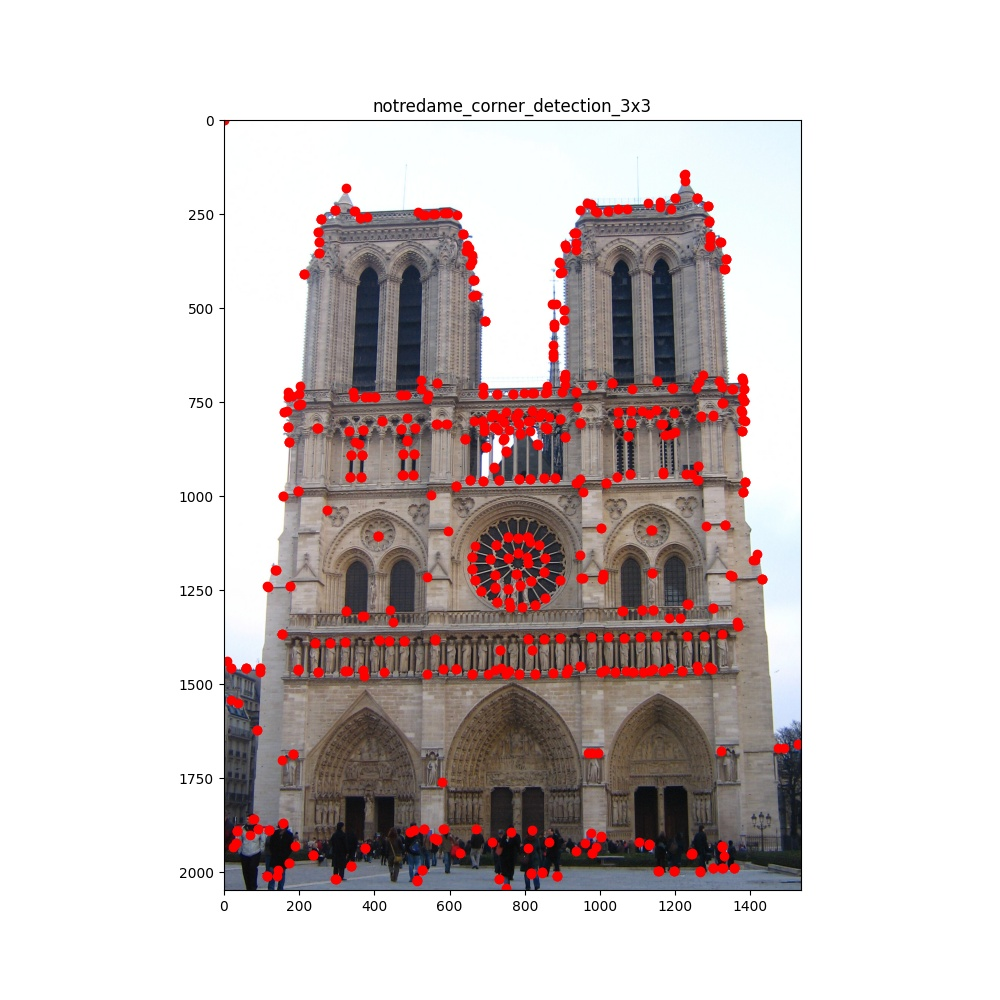
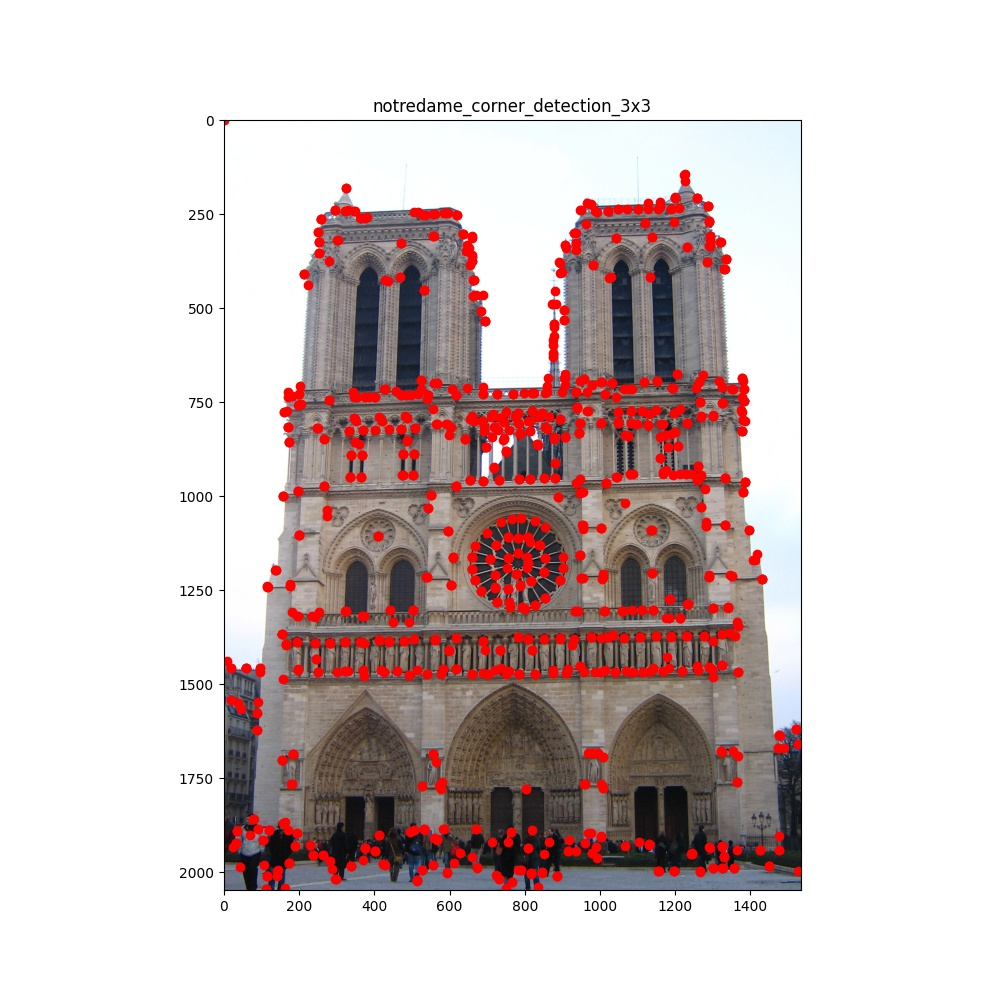
[UPDATE] clean up the code, change some function name

diff --git a/1/HW1-1.py b/1/HW1-1.py
@@ -24,11 +24,10 @@ def apply_kernel(kernel, image):
     return stacked
 
 
-def gaussian_blurrer(k_size, sigma):
+def gaussian_blur(image, k_size, sigma):
     f = gaussian_kernel(k_size, sigma)
     kernel = np.outer(f, f)
-
-    return functools.partial(apply_kernel, kernel)
+    return apply_kernel(kernel, image)
 
 
 def norm_for_showing(image):
@@ -49,7 +48,7 @@ def show_multiple_image(images, titles):
     fig.show()
 
 
-def gradient_field(image, threshold_ratio=0.0):
+def sobel_gradient_field(image, threshold_ratio=0.0):
     sobel = (np.array([[1., 2, 1], [0, 0, 0], [-1, -2, -1]]) / 8,
              np.array([[-1., 0, 1], [-2, 0, 2], [-1, 0, 1]]) / 8)  # (hy, hx)
     image = normalize(image, 0, 1)
@@ -67,7 +66,7 @@ def gradient_field(image, threshold_ratio=0.0):
     return gradient, magnitude, direction
 
 
-def direction_in_hue(magnitude, direction):
+def direction_in_hsv(magnitude, direction):
     hsv = np.zeros(direction.shape, dtype=np.uint8)
 
     hsv[..., 0] = direction.mean(axis=-1) * 180 / np.pi / 2
@@ -98,8 +97,7 @@ def calc_eigen_minus(window, Ixx, Ixy, Iyy):
     det = Ixx * Iyy - Ixy * Ixy
     trace = Ixx + Iyy + 1e-5
     eigen_minus = det / trace
-    response = det - 0.04 * (trace ** 2)
-    return eigen_minus, response
+    return eigen_minus
 
 
 def windowed_slices(idx, wr):
@@ -141,49 +139,43 @@ def show_corner(image, corner, size, name):
     return data
 
 
-def corner_detection(original_image, name):
+def harris_corner_detection(original_image, name):
     img_to_save = {}
 
-    # Step 1: gaussian smooth
-    blurrer5x5 = gaussian_blurrer(5, 5)
-    blurrer10x10 = gaussian_blurrer(10, 5)
+    # Step 1: gaussian blur
+    blurred_images = {'5x5': gaussian_blur(original_image, 5, 5),
+                      '10x10': gaussian_blur(original_image, 10, 5)}
+    show_multiple_image([blurred_images['5x5'], blurred_images['10x10']],
+                        [f'{name}_blur_5x5', f'{name}_blur_10x10'])
+    img_to_save.update({f'{name}_blur_5x5': blurred_images['5x5'],
+                        f'{name}_blur_10x10': blurred_images['10x10']})
 
-    blurred_5x5 = blurrer5x5(original_image)
-    blurred_10x10 = blurrer10x10(original_image)
-    show_multiple_image([blurred_5x5, blurred_10x10],
-                        [f'{name}_blur5x5', f'{name}_blur10x10'])
-    img_to_save.update({f'{name}_blur5x5': blurred_5x5,
-                        f'{name}_blur10x10': blurred_10x10})
+    for b_size, bimg in blurred_images.items():
+        # Step 2: Sobel edge detection
+        grad, mag, dire = sobel_gradient_field(bimg, 0.1)
+        dire_hsv = direction_in_hsv(mag, dire)
+        show_multiple_image([mag, dire_hsv],
+                            [f'{name}_{b_size}_grad_magnitude', f'{name}_{b_size}_grad_direction'])
+        img_to_save.update({f'{name}_{b_size}_grad_magnitude': mag,
+                            f'{name}_{b_size}_grad_direction': dire_hsv})
 
-    blurred_images = {f'5x5': blurred_5x5,
-                      f'10x10': blurred_10x10}
-
-    for suffix, bimg in blurred_images.items():
-        # Step 2
-        grad, mag, dire = gradient_field(bimg, 0.1)
-        dire_rgb = direction_in_hue(mag, dire)
-        show_multiple_image([mag, dire_rgb],
-                            [f'{name}_{suffix}_grad_magnitude', f'{name}_{suffix}_grad_direction'])
-        img_to_save.update({f'{name}_{suffix}_grad_magnitude': mag,
-                            f'{name}_{suffix}_grad_direction': dire_rgb})
-
-        if suffix == '10x10':
-            # Step 3
+        if b_size == '10x10':
+            # Step 3: Compute the structure tensor and its smaller eigenvalue
             Hs = structure_tensor(grad)
-
             windows = {'3x3': summation_kernel(3), '5x5': summation_kernel(5)}
 
-            for suffix, window in windows.items():
-                eigen_minus, resp = calc_eigen_minus(window, *Hs)
+            for w_size, window in windows.items():
+                eigen_minus = calc_eigen_minus(window, *Hs)
+                # if we normalize to 0 ~ 10, we will get a brighter image
                 eigen_minus = normalize(eigen_minus, 0, 1)
 
-                imshow(eigen_minus, f'{name}_eigen_{suffix}')
-                img_to_save.update({f'{name}_eigen_{suffix}': eigen_minus})
+                imshow(eigen_minus, f'{name}_eigen_{w_size}')
+                img_to_save.update({f'{name}_eigen_{w_size}': eigen_minus})
 
-                # Step 4
-                corners = non_maximal_suppression(eigen_minus, 25, 0.15)
-                result = show_corner(original_image, corners, suffix, name)
-                img_to_save.update({f'{name}_corner_detection_{suffix}': result})
+                # Step 4: Non-maximal Suppression
+                corners = non_maximal_suppression(eigen_minus, 25, 0.1)
+                result = show_corner(original_image, corners, w_size, name)
+                img_to_save.update({f'{name}_corner_detection_{w_size}': result})
 
     return img_to_save
 
@@ -195,8 +187,8 @@ if __name__ == '__main__':
     notredame = cv2.imread('1a_notredame.jpg')
     show_multiple_image([chessboard, notredame], ['original chessboard', 'original_notredame'])
 
-    images_to_save.update(corner_detection(chessboard, 'chessboard'))
-    images_to_save.update(corner_detection(notredame, 'notredame'))
+    images_to_save.update(harris_corner_detection(chessboard, 'chessboard'))
+    images_to_save.update(harris_corner_detection(notredame, 'notredame'))
 
     for filename, img in images_to_save.items():
         cv2.imwrite(f'output/normal/{filename}.jpg', normalize(img, 0, 255))
